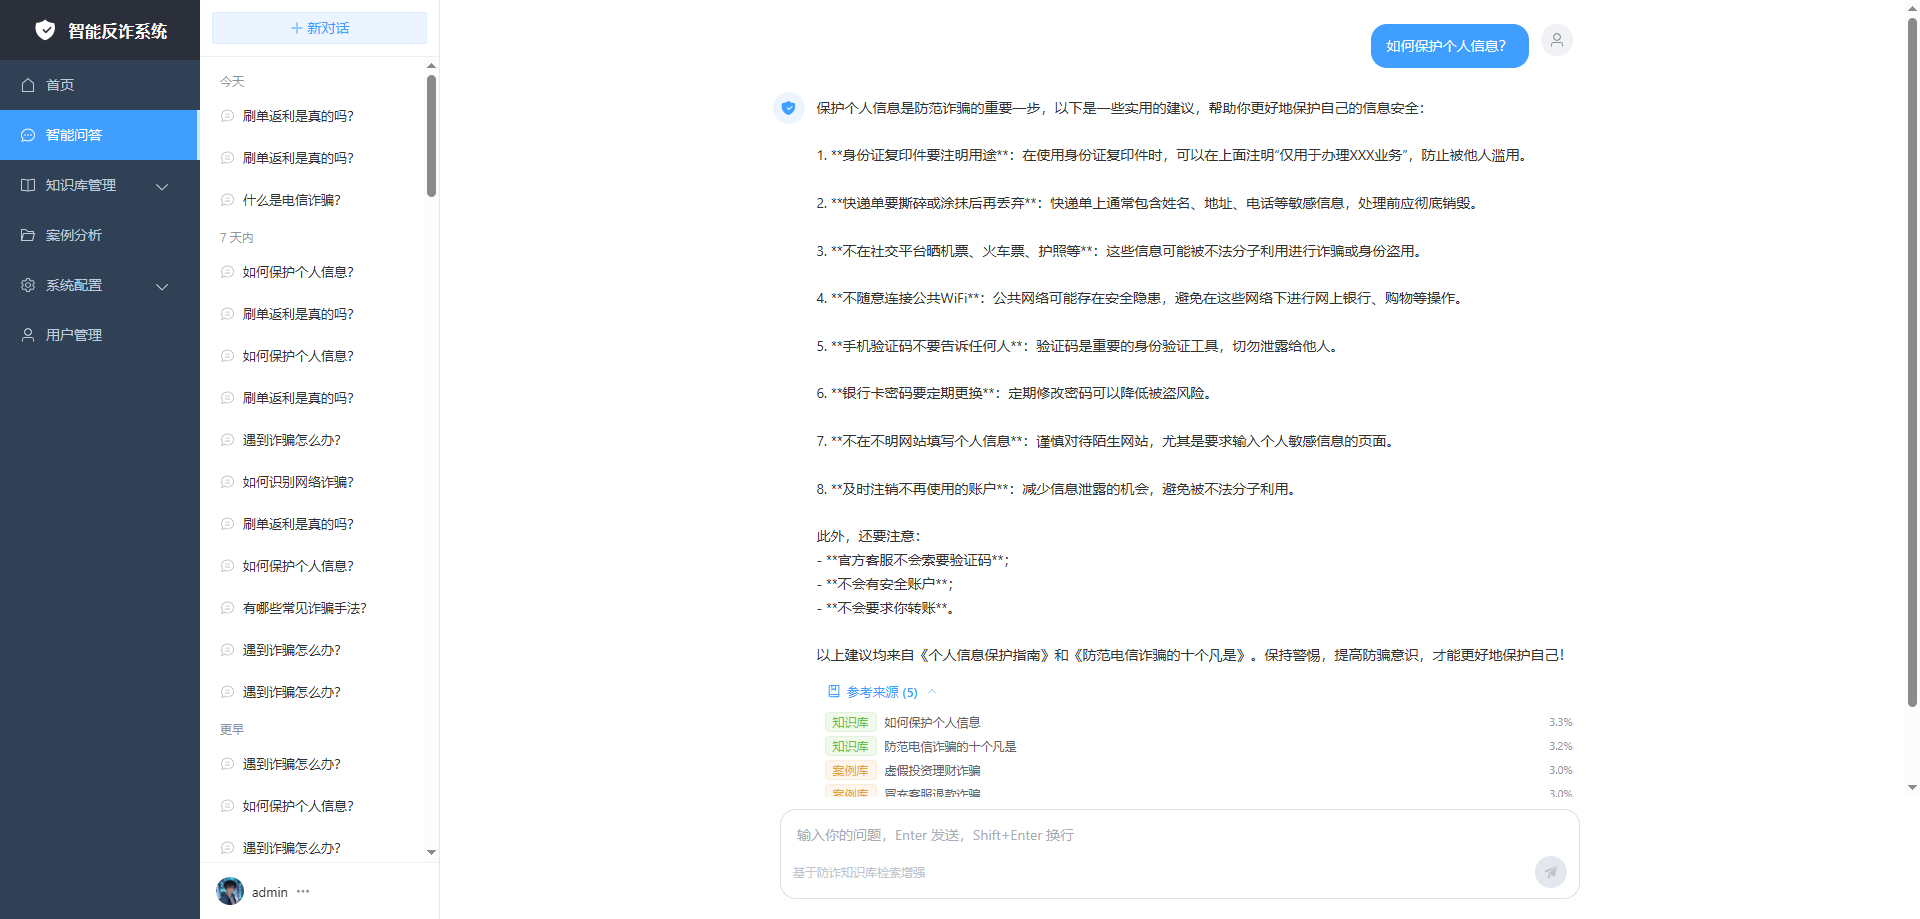
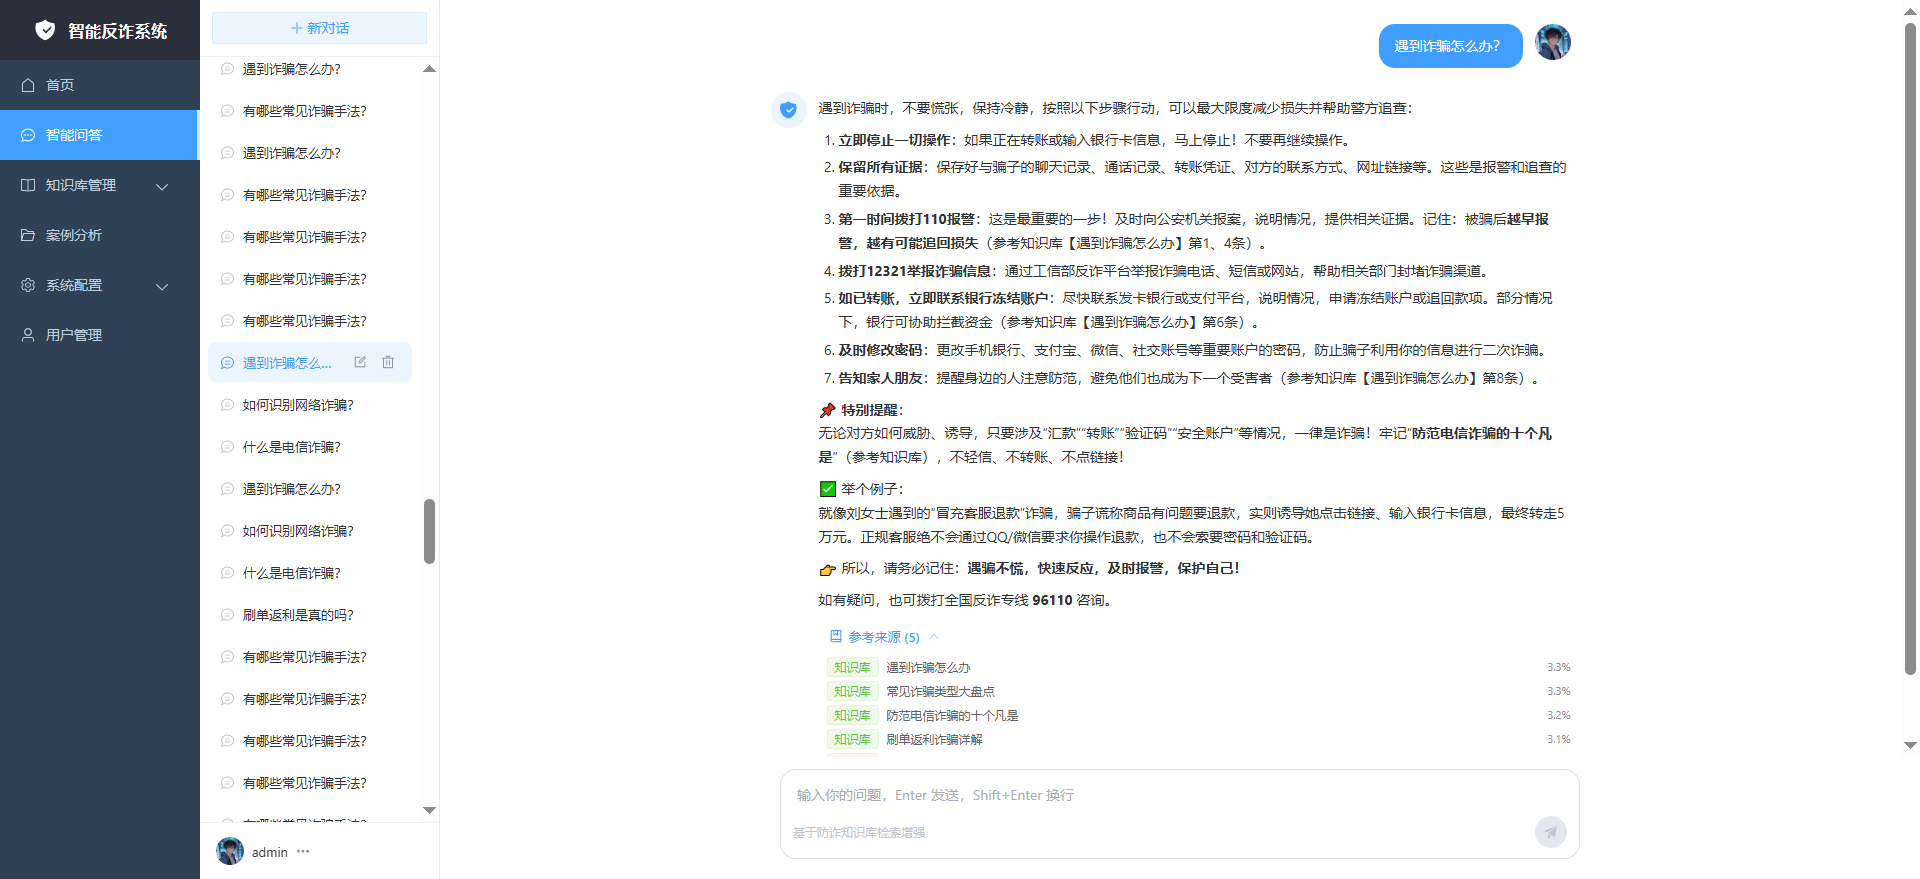
feat：修改文档

diff --git a/README.md b/README.md
@@ -22,13 +22,13 @@
 | :---: | :---: |
 | ![登录页](docs/images/login.png) | ![首页看板](docs/images/dashboard.png) |
 
-| 智能问答（附来源引用） | 知识库管理 |
+| 智能问答 | 智能问答（附来源引用） |
 | :---: | :---: |
-| ![智能问答](docs/images/chat-citations.png) | ![知识库管理](docs/images/knowledge.png) |
+| ![智能问答](docs/images/chat-welcome.png) | ![智能问答](docs/images/chat-citations.png) |
 
-| 案例分析 |
-| :---: |
-| ![案例分析](docs/images/cases.png) |
+| 知识库管理 | 案例分析 |
+| :---: | :---: |
+| ![知识库管理](docs/images/knowledge.png) | ![案例分析](docs/images/cases.png) |
 
 ## 🛠 技术栈
 
